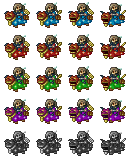
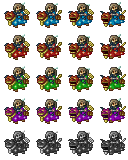
Fixed head order again

diff --git a/splitter.py b/splitter.py
@@ -711,7 +711,7 @@ def process(hd, bd, hoff, boff, alpha, outdir):
     elif hsize == 'small':
         # Small head size
         w,h = HEAD_IDLE_SIZE
-        xPos = [0,1,2,3]
+        xPos = [3,2,1,0]
         
         for k in idleh.keys():
             newIdle = np.zeros((h,w,4), np.uint8)
